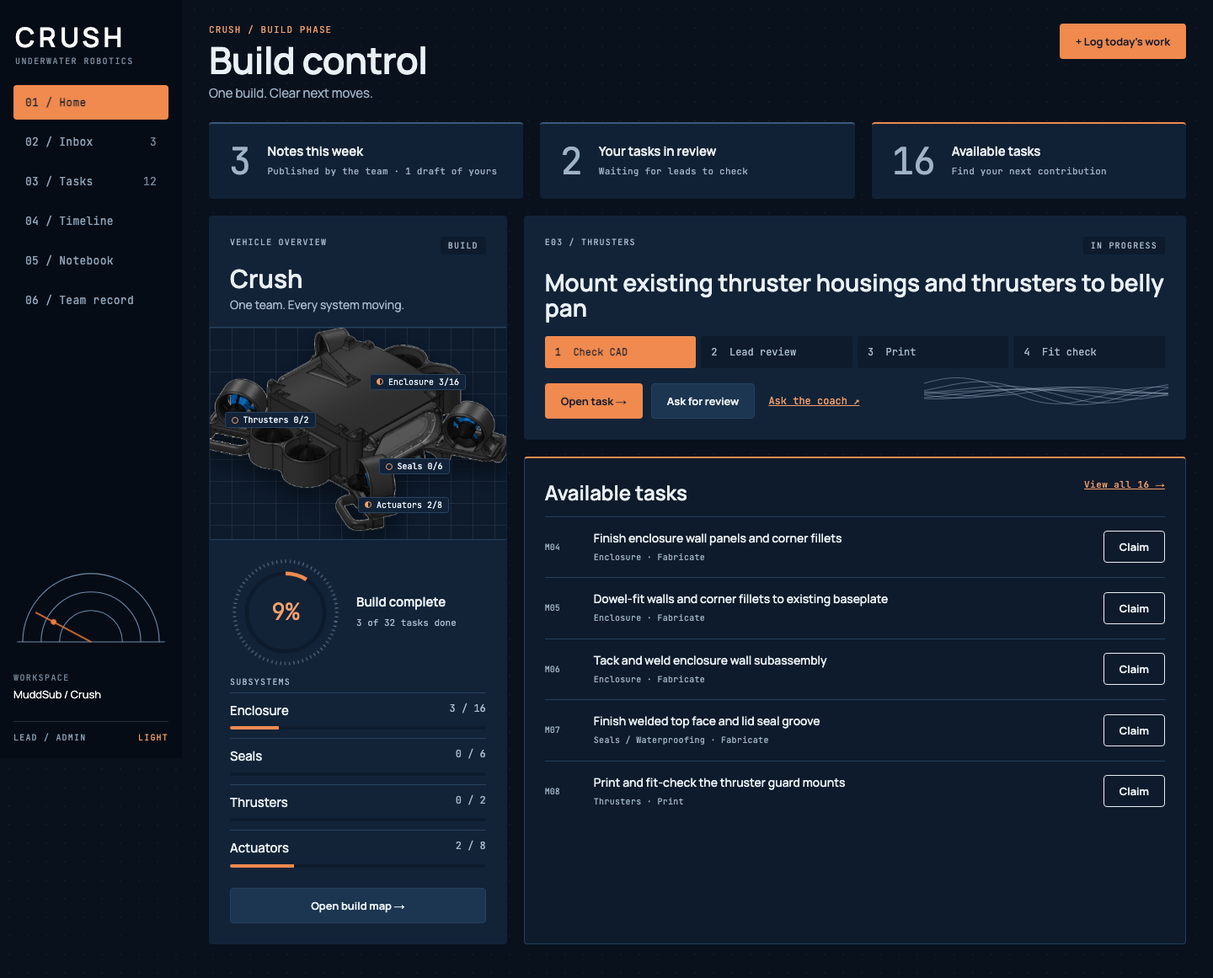
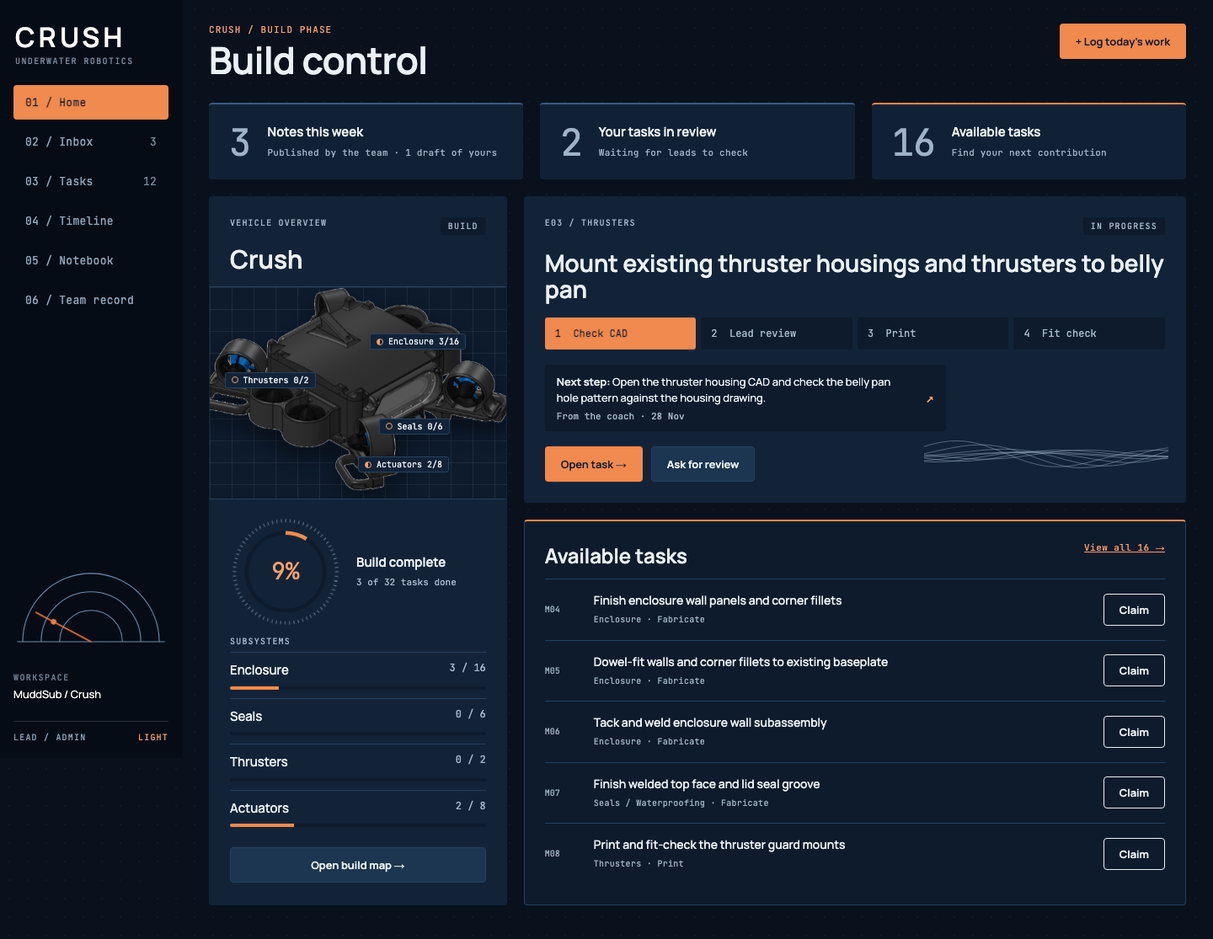
Home: Next-step block links into the coach; drop the tagline lines
The separate 'Ask the coach' link is removed. The Next-step block (both states) is
a real link to /tasks/{code}#coach with a decorative arrow and a 2px orange outline
on hover and focus. The task page's coach section gets id="coach" and focuses the
message box when arrived at with #coach. Polar concept updated to match.

diff --git a/docs/concepts/polar.html b/docs/concepts/polar.html
@@ -7,14 +7,13 @@
 <path d="M10 94a74 74 0 0 1 148 0M30 94a54 54 0 0 1 108 0M50 94a34 34 0 0 1 68 0"/><path d="M4 94h160"/>
 <g class="sweep"><path d="M84 94V26" stroke="#ef7d3e" stroke-width="1.5"/><circle cx="84" cy="48" r="3" fill="#ef7d3e" stroke="none"/></g></svg><div class="ws">Workspace</div><div class="wsn">MuddSub / Crush</div>
 <div class="mode"><span>Lead / Admin</span><button id="mb" type="button">Dark</button></div></aside>
-<main><div class="head rise"><div><div class="eyebrow">Crush / Build phase</div><h1>Build control</h1><p class="lede">One build. Clear next moves.</p></div><a class="btn btn--o" href="#">+ Log today's work</a></div>
+<main><div class="head rise"><div><div class="eyebrow">Crush / Build phase</div><h1>Build control</h1></div><a class="btn btn--o" href="#">+ Log today's work</a></div>
 <div class="tiles">
 <div class="tile rise" style="--d:.05s"><span class="n">3</span><div><b>Notes this week</b><span>Published by the team · 1 draft of yours</span></div></div>
 <div class="tile rise" style="--d:.1s"><span class="n">2</span><div><b>Your tasks in review</b><span>Waiting for leads to check</span></div></div>
 <div class="tile rise" style="--d:.15s"><span class="n">16</span><div><b>Available tasks</b><span>Find your next contribution</span></div></div></div>
 <div class="grid">
-<section class="panel veh rise" style="--d:.2s" aria-labelledby="vo"><div class="row"><span class="lbl">Vehicle overview</span><span class="pill">Build</span></div><h2 id="vo">Crush</h2><p class="tag">One team. Every system moving.</p>
-<div class="render"><img src="../../src/static/img/crush.png" alt="Crush CAD render">
+<section class="panel veh rise" style="--d:.2s" aria-labelledby="vo"><div class="row"><span class="lbl">Vehicle overview</span><span class="pill">Build</span></div><h2 id="vo">Crush</h2><div class="render"><img src="../../src/static/img/crush.png" alt="Crush CAD render">
 <span class="pin half" style="left:54%;top:22%"><i></i>Enclosure 3/16</span><span class="pin" style="left:5%;top:40%"><i></i>Thrusters 0/2</span><span class="pin" style="left:57%;top:62%"><i></i>Seals 0/6</span><span class="pin half" style="left:50%;top:80%"><i></i>Actuators 2/8</span></div>
 <div class="gauge"><svg viewBox="0 0 200 200" role="img" aria-label="Build 9 percent complete">
 <g class="g-ticks"><circle cx="100" cy="100" r="92" fill="none" stroke="var(--panel-muted)" stroke-width="6" stroke-dasharray="1.6 6.4" opacity=".55"/></g>
@@ -26,7 +25,8 @@
 <section class="panel act rise" style="--d:.25s" aria-labelledby="at"><div class="row"><span class="lbl">E03 / Thrusters</span><span class="pill">In progress</span></div>
 <h2 id="at">Mount existing thruster housings and thrusters to belly pan</h2>
 <div class="steps"><div class="step on" aria-current="step">1 &nbsp;Check CAD</div><div class="step">2 &nbsp;Lead review</div><div class="step">3 &nbsp;Print</div><div class="step">4 &nbsp;Fit check</div></div>
-<div class="acts"><a class="btn btn--o" href="#">Open task →</a><a class="btn btn--g" href="#">Ask for review</a><a class="ask" href="#">Ask the coach ↗</a></div>
+<a class="next" href="#"><b>Next step:</b> Open the thruster housing CAD and check the belly pan hole pattern against the housing drawing.<small>From the coach · 28 Nov</small><span class="arr" aria-hidden="true">↗</span></a>
+<div class="acts"><a class="btn btn--o" href="#">Open task →</a><a class="btn btn--g" href="#">Ask for review</a></div>
 <div class="waves" aria-hidden="true"><svg viewBox="0 0 1040 60"><path d="M0,30.0 L8,30.7 L16,31.5 L24,32.3 L32,33.1 L40,33.8 L48,34.4 L56,34.9 L64,35.2 L72,35.2 L80,35.1 L88,34.7 L96,34.2 L104,33.4 L112,32.5 L120,31.4 L128,30.3 L136,29.1 L144,28.0 L152,27.0 L160,26.1 L168,25.3 L176,24.8 L184,24.5 L192,24.4 L200,24.5 L208,24.9 L216,25.4 L224,26.1 L232,26.9 L240,27.8 L248,28.7 L256,29.6 L264,30.4 L272,31.1 L280,31.7 L288,32.2 L296,32.5 L304,32.7 L312,32.7 L320,32.6 L328,32.4 L336,32.2 L344,31.9 L352,31.5 L360,31.2 L368,30.8 L376,30.5 L384,30.2 L392,29.9 L400,29.7 L408,29.5 L416,29.3 L424,29.1 L432,29.0 L440,28.8 L448,28.7 L456,28.7 L464,28.6 L472,28.6 L480,28.6 L488,28.8 L496,28.9 L504,29.2 L512,29.6 L520,30.0 L528,30.5 L536,31.1 L544,31.7 L552,32.3 L560,32.8 L568,33.4 L576,33.8 L584,34.1 L592,34.2 L600,34.2 L608,34.0 L616,33.6 L624,33.0 L632,32.2 L640,31.3 L648,30.3 L656,29.2 L664,28.1 L672,27.0 L680,26.1 L688,25.3 L696,24.6 L704,24.2 L712,24.0 L720,24.1 L728,24.4 L736,24.9 L744,25.6 L752,26.4 L760,27.4 L768,28.4 L776,29.5 L784,30.5 L792,31.4 L800,32.2 L808,32.9 L816,33.4 L824,33.7 L832,33.8 L840,33.8 L848,33.6 L856,33.3 L864,32.9 L872,32.4 L880,31.8 L888,31.3 L896,30.8 L904,30.3 L912,29.9 L920,29.5 L928,29.3 L936,29.1 L944,28.9 L952,28.8 L960,28.8 L968,28.7 L976,28.8 L984,28.8 L992,28.9 L1000,29.0 L1008,29.1 L1016,29.3 L1024,29.5 L1032,29.7 L1040,30.0"/><path d="M0,33.7 L8,34.9 L16,35.9 L24,36.7 L32,37.3 L40,37.6 L48,37.5 L56,37.2 L64,36.5 L72,35.7 L80,34.6 L88,33.3 L96,31.9 L104,30.6 L112,29.2 L120,27.9 L128,26.8 L136,25.9 L144,25.2 L152,24.8 L160,24.6 L168,24.6 L176,24.9 L184,25.3 L192,25.9 L200,26.6 L208,27.4 L216,28.1 L224,28.9 L232,29.6 L240,30.2 L248,30.7 L256,31.1 L264,31.4 L272,31.6 L280,31.8 L288,31.8 L296,31.8 L304,31.7 L312,31.6 L320,31.4 L328,31.2 L336,31.0 L344,30.8 L352,30.6 L360,30.3 L368,30.0 L376,29.6 L384,29.2 L392,28.8 L400,28.4 L408,27.9 L416,27.5 L424,27.1 L432,26.9 L440,26.7 L448,26.6 L456,26.7 L464,27.0 L472,27.5 L480,28.1 L488,28.9 L496,29.8 L504,30.9 L512,32.0 L520,33.1 L528,34.2 L536,35.2 L544,36.0 L552,36.6 L560,37.0 L568,37.1 L576,36.9 L584,36.4 L592,35.6 L600,34.6 L608,33.4 L616,32.0 L624,30.6 L632,29.1 L640,27.7 L648,26.4 L656,25.3 L664,24.4 L672,23.8 L680,23.4 L688,23.3 L696,23.5 L704,24.0 L712,24.6 L720,25.4 L728,26.4 L736,27.4 L744,28.4 L752,29.4 L760,30.3 L768,31.1 L776,31.7 L784,32.2 L792,32.6 L800,32.7 L808,32.8 L816,32.7 L824,32.5 L832,32.3 L840,32.0 L848,31.6 L856,31.3 L864,30.9 L872,30.6 L880,30.3 L888,30.0 L896,29.7 L904,29.4 L912,29.1 L920,28.9 L928,28.6 L936,28.4 L944,28.2 L952,28.0 L960,27.9 L968,27.8 L976,27.9 L984,28.0 L992,28.3 L1000,28.7 L1008,29.2 L1016,29.9 L1024,30.6 L1032,31.5 L1040,32.4"/><path d="M0,37.9 L8,38.4 L16,38.5 L24,38.3 L32,37.8 L40,36.9 L48,35.9 L56,34.7 L64,33.4 L72,32.0 L80,30.7 L88,29.5 L96,28.4 L104,27.5 L112,26.8 L120,26.4 L128,26.1 L136,26.0 L144,26.1 L152,26.4 L160,26.8 L168,27.2 L176,27.7 L184,28.2 L192,28.7 L200,29.2 L208,29.7 L216,30.1 L224,30.4 L232,30.8 L240,31.1 L248,31.3 L256,31.6 L264,31.8 L272,32.0 L280,32.1 L288,32.2 L296,32.2 L304,32.2 L312,32.0 L320,31.7 L328,31.3 L336,30.7 L344,30.0 L352,29.2 L360,28.4 L368,27.4 L376,26.5 L384,25.5 L392,24.7 L400,24.0 L408,23.6 L416,23.3 L424,23.4 L432,23.7 L440,24.4 L448,25.3 L456,26.5 L464,27.9 L472,29.5 L480,31.2 L488,32.8 L496,34.5 L504,35.9 L512,37.2 L520,38.2 L528,38.8 L536,39.1 L544,39.1 L552,38.6 L560,37.9 L568,36.8 L576,35.5 L584,34.0 L592,32.5 L600,30.9 L608,29.3 L616,27.9 L624,26.7 L632,25.7 L640,25.0 L648,24.5 L656,24.3 L664,24.4 L672,24.6 L680,25.1 L688,25.7 L696,26.5 L704,27.2 L712,28.0 L720,28.8 L728,29.5 L736,30.1 L744,30.6 L752,31.1 L760,31.4 L768,31.6 L776,31.8 L784,31.9 L792,31.9 L800,31.9 L808,31.8 L816,31.7 L824,31.6 L832,31.4 L840,31.1 L848,30.8 L856,30.5 L864,30.0 L872,29.5 L880,28.9 L888,28.3 L896,27.6 L904,27.0 L912,26.4 L920,25.8 L928,25.4 L936,25.2 L944,25.1 L952,25.2 L960,25.6 L968,26.3 L976,27.2 L984,28.3 L992,29.6 L1000,31.0 L1008,32.5 L1016,34.0 L1024,35.4 L1032,36.6 L1040,37.7"/><path d="M0,37.1 L8,36.5 L16,35.6 L24,34.7 L32,33.7 L40,32.6 L48,31.6 L56,30.6 L64,29.8 L72,29.1 L80,28.5 L88,28.1 L96,27.8 L104,27.6 L112,27.5 L120,27.6 L128,27.7 L136,27.8 L144,28.0 L152,28.2 L160,28.5 L168,28.8 L176,29.2 L184,29.6 L192,30.0 L200,30.5 L208,31.1 L216,31.7 L224,32.4 L232,33.0 L240,33.7 L248,34.2 L256,34.6 L264,34.9 L272,35.0 L280,34.9 L288,34.5 L296,33.8 L304,32.9 L312,31.7 L320,30.3 L328,28.8 L336,27.2 L344,25.5 L352,24.0 L360,22.6 L368,21.4 L376,20.5 L384,19.9 L392,19.8 L400,20.1 L408,20.8 L416,21.9 L424,23.3 L432,25.0 L440,27.0 L448,29.0 L456,31.1 L464,33.1 L472,34.9 L480,36.5 L488,37.8 L496,38.7 L504,39.2 L512,39.3 L520,39.1 L528,38.4 L536,37.5 L544,36.4 L552,35.1 L560,33.7 L568,32.3 L576,30.9 L584,29.7 L592,28.6 L600,27.7 L608,27.0 L616,26.5 L624,26.3 L632,26.2 L640,26.3 L648,26.5 L656,26.9 L664,27.3 L672,27.7 L680,28.2 L688,28.7 L696,29.1 L704,29.6 L712,30.0 L720,30.4 L728,30.8 L736,31.2 L744,31.6 L752,32.0 L760,32.4 L768,32.7 L776,33.0 L784,33.2 L792,33.2 L800,33.2 L808,33.0 L816,32.6 L824,32.0 L832,31.2 L840,30.2 L848,29.1 L856,27.9 L864,26.6 L872,25.3 L880,24.1 L888,23.0 L896,22.2 L904,21.6 L912,21.3 L920,21.4 L928,21.8 L936,22.6 L944,23.8 L952,25.3 L960,27.1 L968,29.1 L976,31.1 L984,33.1 L992,35.1 L1000,36.8 L1008,38.3 L1016,39.4 L1024,40.2 L1032,40.5 L1040,40.4"/><path d="M0,33.0 L8,32.3 L16,31.7 L24,31.0 L32,30.5 L40,29.9 L48,29.4 L56,29.0 L64,28.6 L72,28.2 L80,27.9 L88,27.5 L96,27.3 L104,27.0 L112,26.9 L120,26.8 L128,26.9 L136,27.2 L144,27.6 L152,28.1 L160,28.9 L168,29.9 L176,31.0 L184,32.2 L192,33.5 L200,34.9 L208,36.1 L216,37.3 L224,38.2 L232,38.9 L240,39.2 L248,39.1 L256,38.7 L264,37.8 L272,36.5 L280,34.9 L288,33.0 L296,30.8 L304,28.6 L312,26.3 L320,24.1 L328,22.1 L336,20.4 L344,19.0 L352,18.1 L360,17.7 L368,17.8 L376,18.4 L384,19.4 L392,20.8 L400,22.6 L408,24.5 L416,26.6 L424,28.7 L432,30.8 L440,32.6 L448,34.3 L456,35.6 L464,36.6 L472,37.2 L480,37.4 L488,37.4 L496,37.0 L504,36.4 L512,35.6 L520,34.6 L528,33.6 L536,32.6 L544,31.6 L552,30.7 L560,29.9 L568,29.2 L576,28.7 L584,28.2 L592,27.9 L600,27.7 L608,27.6 L616,27.5 L624,27.5 L632,27.6 L640,27.7 L648,27.8 L656,28.1 L664,28.4 L672,28.8 L680,29.3 L688,29.9 L696,30.6 L704,31.5 L712,32.3 L720,33.3 L728,34.2 L736,35.0 L744,35.8 L752,36.4 L760,36.8 L768,36.9 L776,36.6 L784,36.1 L792,35.2 L800,34.0 L808,32.5 L816,30.7 L824,28.8 L832,26.7 L840,24.7 L848,22.8 L856,21.1 L864,19.6 L872,18.6 L880,18.0 L888,17.8 L896,18.2 L904,19.0 L912,20.3 L920,22.0 L928,24.0 L936,26.2 L944,28.6 L952,30.9 L960,33.1 L968,35.1 L976,36.8 L984,38.2 L992,39.1 L1000,39.7 L1008,39.8 L1016,39.4 L1024,38.8 L1032,37.8 L1040,36.6"/><path d="M0,31.2 L8,30.6 L16,30.0 L24,29.3 L32,28.5 L40,27.7 L48,26.8 L56,25.9 L64,25.1 L72,24.3 L80,23.8 L88,23.4 L96,23.3 L104,23.5 L112,24.0 L120,24.9 L128,26.1 L136,27.6 L144,29.5 L152,31.5 L160,33.6 L168,35.8 L176,37.8 L184,39.7 L192,41.3 L200,42.4 L208,43.2 L216,43.3 L224,43.0 L232,42.1 L240,40.7 L248,38.8 L256,36.6 L264,34.1 L272,31.4 L280,28.7 L288,26.2 L296,23.8 L304,21.8 L312,20.1 L320,19.0 L328,18.3 L336,18.1 L344,18.5 L352,19.2 L360,20.4 L368,21.8 L376,23.5 L384,25.3 L392,27.0 L400,28.8 L408,30.3 L416,31.7 L424,32.8 L432,33.7 L440,34.3 L448,34.6 L456,34.7 L464,34.6 L472,34.3 L480,33.9 L488,33.4 L496,32.8 L504,32.3 L512,31.7 L520,31.1 L528,30.6 L536,30.0 L544,29.5 L552,28.9 L560,28.4 L568,27.9 L576,27.3 L584,26.8 L592,26.4 L600,26.0 L608,25.7 L616,25.6 L624,25.7 L632,26.0 L640,26.5 L648,27.3 L656,28.3 L664,29.6 L672,31.1 L680,32.7 L688,34.4 L696,36.2 L704,37.8 L712,39.2 L720,40.4 L728,41.2 L736,41.5 L744,41.4 L752,40.8 L760,39.8 L768,38.2 L776,36.2 L784,33.9 L792,31.4 L800,28.7 L808,26.1 L816,23.6 L824,21.3 L832,19.4 L840,17.9 L848,16.9 L856,16.5 L864,16.6 L872,17.3 L880,18.4 L888,20.0 L896,21.8 L904,23.9 L912,26.1 L920,28.4 L928,30.5 L936,32.4 L944,34.0 L952,35.3 L960,36.3 L968,36.9 L976,37.1 L984,37.0 L992,36.7 L1000,36.1 L1008,35.3 L1016,34.4 L1024,33.5 L1032,32.5 L1040,31.6"/><path d="M0,28.8 L8,27.2 L16,25.5 L24,23.8 L32,22.1 L40,20.7 L48,19.4 L56,18.6 L64,18.2 L72,18.2 L80,18.8 L88,19.9 L96,21.5 L104,23.6 L112,26.0 L120,28.8 L128,31.7 L136,34.6 L144,37.3 L152,39.9 L160,42.0 L168,43.7 L176,44.9 L184,45.4 L192,45.3 L200,44.6 L208,43.3 L216,41.6 L224,39.4 L232,37.0 L240,34.4 L248,31.7 L256,29.2 L264,26.9 L272,24.9 L280,23.2 L288,22.0 L296,21.3 L304,20.9 L312,21.0 L320,21.5 L328,22.2 L336,23.2 L344,24.3 L352,25.6 L360,26.8 L368,28.0 L376,29.1 L384,30.1 L392,30.9 L400,31.6 L408,32.1 L416,32.5 L424,32.8 L432,33.0 L440,33.1 L448,33.1 L456,33.1 L464,33.0 L472,32.8 L480,32.5 L488,32.1 L496,31.6 L504,31.0 L512,30.2 L520,29.2 L528,28.2 L536,27.0 L544,25.8 L552,24.6 L560,23.5 L568,22.5 L576,21.7 L584,21.2 L592,21.1 L600,21.3 L608,22.0 L616,23.2 L624,24.7 L632,26.7 L640,29.0 L648,31.4 L656,34.0 L664,36.6 L672,39.1 L680,41.3 L688,43.1 L696,44.4 L704,45.2 L712,45.4 L720,44.9 L728,43.9 L736,42.3 L744,40.2 L752,37.7 L760,34.9 L768,32.0 L776,29.1 L784,26.3 L792,23.8 L800,21.7 L808,20.0 L816,18.8 L824,18.1 L832,18.0 L840,18.4 L848,19.2 L856,20.4 L864,21.8 L872,23.5 L880,25.2 L888,26.9 L896,28.6 L904,30.1 L912,31.4 L920,32.5 L928,33.3 L936,33.8 L944,34.1 L952,34.2 L960,34.2 L968,34.0 L976,33.6 L984,33.2 L992,32.8 L1000,32.3 L1008,31.8 L1016,31.3 L1024,30.7 L1032,30.1 L1040,29.5"/><path d="M0,20.3 L8,18.0 L16,16.1 L24,14.6 L32,13.7 L40,13.5 L48,13.9 L56,15.0 L64,16.7 L72,19.0 L80,21.8 L88,24.8 L96,28.1 L104,31.4 L112,34.5 L120,37.4 L128,39.9 L136,41.9 L144,43.3 L152,44.1 L160,44.3 L168,43.9 L176,43.0 L184,41.6 L192,39.9 L200,37.9 L208,35.8 L216,33.6 L224,31.6 L232,29.7 L240,28.1 L248,26.7 L256,25.7 L264,25.0 L272,24.6 L280,24.5 L288,24.6 L296,24.9 L304,25.4 L312,26.0 L320,26.6 L328,27.3 L336,27.9 L344,28.6 L352,29.3 L360,29.9 L368,30.6 L376,31.3 L384,32.0 L392,32.7 L400,33.4 L408,34.0 L416,34.6 L424,35.1 L432,35.5 L440,35.7 L448,35.6 L456,35.2 L464,34.6 L472,33.6 L480,32.2 L488,30.6 L496,28.7 L504,26.7 L512,24.5 L520,22.3 L528,20.3 L536,18.5 L544,17.0 L552,16.0 L560,15.6 L568,15.7 L576,16.4 L584,17.8 L592,19.7 L600,22.1 L608,25.0 L616,28.1 L624,31.4 L632,34.6 L640,37.7 L648,40.5 L656,42.9 L664,44.7 L672,45.9 L680,46.5 L688,46.3 L696,45.5 L704,44.1 L712,42.3 L720,40.0 L728,37.5 L736,34.8 L744,32.1 L752,29.6 L760,27.3 L768,25.3 L776,23.7 L784,22.6 L792,21.9 L800,21.6 L808,21.7 L816,22.1 L824,22.8 L832,23.7 L840,24.8 L848,25.9 L856,27.0 L864,28.1 L872,29.0 L880,29.9 L888,30.7 L896,31.4 L904,31.9 L912,32.4 L920,32.8 L928,33.1 L936,33.4 L944,33.6 L952,33.7 L960,33.7 L968,33.6 L976,33.4 L984,32.9 L992,32.3 L1000,31.5 L1008,30.4 L1016,29.1 L1024,27.7 L1032,26.2 L1040,24.6"/></svg></div></section>
 <section class="panel avail rise" style="--d:.3s" aria-labelledby="av"><div class="row"><h2 id="av">Available tasks</h2><a href="#">View all 16 →</a></div>
 <div class="it"><span class="c">M04</span><span><b>Finish enclosure wall panels and corner fillets</b><span class="m">Enclosure · Fabricate</span></span><a class="btn btn--l" href="#">Claim</a></div><div class="it"><span class="c">M05</span><span><b>Dowel-fit walls and corner fillets to existing baseplate</b><span class="m">Enclosure · Fabricate</span></span><a class="btn btn--l" href="#">Claim</a></div><div class="it"><span class="c">M06</span><span><b>Tack and weld enclosure wall subassembly</b><span class="m">Enclosure · Fabricate</span></span><a class="btn btn--l" href="#">Claim</a></div><div class="it"><span class="c">M07</span><span><b>Finish welded top face and lid seal groove</b><span class="m">Seals / Waterproofing · Fabricate</span></span><a class="btn btn--l" href="#">Claim</a></div><div class="it"><span class="c">M08</span><span><b>Print and fit-check the thruster guard mounts</b><span class="m">Thrusters · Print</span></span><a class="btn btn--l" href="#">Claim</a></div></section></div></main></div>

diff --git a/src/templates/home.html b/src/templates/home.html
@@ -8,7 +8,6 @@
 <div class="topbar__title">
   <div class="eyebrow">Crush / Build phase</div>
   <h1 class="page-title">Build control</h1>
-  <p class="lede">One build. Clear next moves.</p>
 </div>
 {% endblock %}
 {% block topbar_actions %}{% if user %}<a class="btn btn--primary" href="/notebook" data-notebook-open data-panel-url="/notebook/panel?tab=today">+ Log today&rsquo;s work</a>{% endif %}{% endblock %}
@@ -38,7 +37,6 @@
   <section class="panel panel--navy home-grid__tall rise" style="--d:.2s" aria-labelledby="crush">
     <div class="row"><span class="lbl">Vehicle overview</span><span class="pill">Build</span></div>
     <h2 class="panel__title" id="crush">Crush</h2>
-    <p class="tagline">One team. Every system moving.</p>
     <div class="vehicle__view"><div class="render"><img src="/static/img/crush.png" alt="CAD render of Crush">
       {% for g in groups %}<a class="render__tag" href="/tasks?show=all#{{ g.slug }}" style="left:{{ g.tag[0] }}%;top:{{ g.tag[1] }}%"><span class="status status--{{ {'done': 'done', 'in_progress': 'in-progress', 'todo': 'todo'}[g.tag_state] }}"><span class="visually-hidden">{{ {'done': 'Done', 'in_progress': 'Started', 'todo': 'Not started'}[g.tag_state] }}: </span></span>{{ g.label }} {{ g.done }}/{{ g.total }}</a>{% endfor %}
     </div></div>
@@ -69,10 +67,11 @@
     <div class="row"><span class="lbl">{{ task.code }} / {{ task.subsystem }}</span><span class="pill">{{ status_labels[task.status] }}</span></div>
     <h2 class="panel__title" id="active-task"><a href="/tasks/{{ task.code }}">{{ task.title }}</a></h2>
     <ol class="stages" aria-label="Steps">{% for s in stages %}<li{% if s.state == "past" %} class="is-past"{% elif s.state == "current" %} class="is-current" aria-current="step"{% endif %}>{{ s.label }}</li>{% endfor %}</ol>
+    {#- The whole block is the way into the coach: a real link to the task page's coach section (#coach), which focuses the message box. The arrow is decoration; the hidden words finish the link's name. -#}
     {% if next_step %}
-    <p class="active__next"><b>Next step:</b> {{ next_step.text }}<small>From the coach · {{ next_step.date }}</small></p>
+    <a class="active__next" href="/tasks/{{ task.code }}#coach"><b>Next step:</b> {{ next_step.text }}<small>From the coach · {{ next_step.date }}</small><span class="visually-hidden">, open the coach</span><span class="active__arrow" aria-hidden="true">↗</span></a>
     {% else %}
-    <p class="active__next">No next step yet. Ask the coach about this task and it will suggest one.</p>
+    <a class="active__next" href="/tasks/{{ task.code }}#coach">No next step yet. Ask the coach about this task and it will suggest one.<span class="visually-hidden">, open the coach</span><span class="active__arrow" aria-hidden="true">↗</span></a>
     {% endif %}
     <div class="active__acts">
       <a class="btn btn--primary" href="/tasks/{{ task.code }}">Open task →</a>
@@ -82,7 +81,6 @@
         <button class="btn" type="submit">{{ main_action[1] }}</button>
       </form>
       {% endif %}
-      <a class="active__ask" href="/tasks/{{ task.code }}#coach-message">Ask the coach ↗</a>
     </div>
     {% if more_tasks %}<p class="meta">You have {{ more_tasks }} other task{{ "" if more_tasks == 1 else "s" }} in progress. <a href="/tasks?show=mine">See all yours</a>.</p>{% endif %}
     <div class="waves" aria-hidden="true"></div>

diff --git a/src/static/styles/theme.css b/src/static/styles/theme.css
@@ -114,7 +114,6 @@
 .lbl { font: 10px var(--font-mono); letter-spacing: 0.12em; text-transform: uppercase; color: var(--panel-muted); }
 .pill { font: 10px var(--font-mono); letter-spacing: 0.12em; text-transform: uppercase; background: var(--panel-inset); color: var(--panel-muted); padding: 4px 9px; border-radius: 3px; white-space: nowrap; }
 .row { display: flex; justify-content: space-between; align-items: flex-start; gap: 12px; }
-.tagline { margin: 0; color: var(--panel-muted); font-size: 14px; }
 
 /* Vehicle overview: the render on the blueprint grid, the gauge, a bar per subsystem */
 .vehicle__view { position: relative; margin: 16px -24px 0; padding: 20px 34px; background-color: var(--panel-inset); background-image: linear-gradient(var(--grid) 1px, transparent 1px), linear-gradient(90deg, var(--grid) 1px, transparent 1px); background-size: 26px 26px; border-block: 1px solid var(--panel-rule); display: grid; place-items: center; }
@@ -149,11 +148,13 @@
 .active .stages .is-past { background: var(--panel-btn); color: var(--panel-ink); }
 .active .stages .is-current { background: var(--orange); color: var(--on-orange); font-weight: var(--weight-semibold); }
 .active .stages:has(li:nth-child(5)) { grid-template-columns: repeat(auto-fit, minmax(120px, 1fr)); }
-.active__next { background: var(--panel-inset); border-radius: 3px; padding: 11px 14px; margin: 0 0 18px; font-size: var(--text-sm); max-width: 60ch; }
+/* The Next-step block is a link to the coach. Hover and keyboard focus draw the same 2px orange outline as every focus ring; the arrow is decoration. */
+.active__next { display: block; position: relative; background: var(--panel-inset); color: var(--panel-ink); border-radius: 3px; padding: 11px 40px 11px 14px; margin: 0 0 18px; font-size: var(--text-sm); max-width: 60ch; text-decoration: none; cursor: pointer; }
+.active__next:hover, .active__next:focus-visible { outline: 2px solid var(--orange); outline-offset: 2px; }
 .active__next small { display: block; font: 11px var(--font-mono); color: var(--panel-muted); margin-top: 4px; }
+.active__arrow { position: absolute; right: 14px; top: 50%; transform: translateY(-50%); font: 16px var(--font-mono); color: var(--orange-text-on-panel); }
 .active__acts { display: flex; gap: 10px; align-items: center; flex-wrap: wrap; position: relative; z-index: 1; }
 .active__acts form { margin: 0; }
-.active__ask { font: 12px var(--font-mono); color: var(--orange-text-on-panel); margin-left: 6px; }
 .active .meta { position: relative; z-index: 1; }
 .waves { position: absolute; right: 20px; bottom: 14px; width: 290px; height: 86px; opacity: 0.9; overflow: hidden; pointer-events: none; }
 .waves::before { content: ""; position: absolute; top: 14px; left: 0; width: 1040px; height: 60px; background: url("../img/waves.svg") 0 0 / 1040px 60px no-repeat; animation: drift 22s linear infinite; }

diff --git a/docs/concepts/polar.css b/docs/concepts/polar.css
@@ -96,7 +96,10 @@ h1{font:600 44px/1.05 "Manrope";letter-spacing:-.01em;margin:6px 0 6px}
 .step{background:var(--panel-inset);color:var(--panel-muted);font:400 12px "JetBrains Mono";padding:11px 12px;border-radius:3px}
 .step.on{background:var(--orange);color:var(--on-orange);font-weight:600}
 .acts{display:flex;gap:10px;align-items:center;flex-wrap:wrap;position:relative;z-index:1}
-.acts .ask{font:400 12px "JetBrains Mono";color:var(--orange-text-on-panel);margin-left:6px}
+.next{display:block;position:relative;background:var(--panel-inset);color:var(--panel-ink);border-radius:3px;padding:11px 40px 11px 14px;margin:0 0 18px;font-size:13px;max-width:60ch;text-decoration:none;cursor:pointer}
+.next:hover,.next:focus-visible{outline:2px solid var(--orange);outline-offset:2px}
+.next small{display:block;font:400 11px "JetBrains Mono";color:var(--panel-muted);margin-top:4px}
+.next .arr{position:absolute;right:14px;top:50%;transform:translateY(-50%);font:400 16px "JetBrains Mono";color:var(--orange-text-on-panel)}
 .waves{position:absolute;right:20px;bottom:14px;width:290px;height:86px;opacity:.9;overflow:hidden;color:var(--panel-muted)}
 .waves svg{width:1040px;height:60px;margin-top:14px;animation:drift 22s linear infinite}
 .waves path{fill:none;stroke:currentColor;stroke-width:1;opacity:.5}

diff --git a/src/static/coach.js b/src/static/coach.js
@@ -405,4 +405,17 @@
     var box = byId("coach-message");
     if (box) box.value = "";
   });
+
+  // A link to /tasks/CODE#coach (Home's Next-step block) lands on the coach with the message
+  // box ready to type in. Nothing is sent.
+  function focusCoachFromHash() {
+    if (window.location.hash !== "#coach") return;
+    var field = byId("coach-message");
+    if (field) field.focus();
+  }
+  // The browser's own jump to #coach (which clears focus) comes after this script runs, so focus
+  // again once the page has loaded as well.
+  focusCoachFromHash();
+  window.addEventListener("load", focusCoachFromHash);
+  window.addEventListener("hashchange", focusCoachFromHash);
 })();

diff --git a/src/templates/task.html b/src/templates/task.html
@@ -19,7 +19,7 @@
 {% else %}
 {% if error %}{{ notice_box(error, "error") }}{% endif %}
 <div class="grid-task">
-  <section class="panel" aria-labelledby="coach-heading">
+  <section class="panel" id="coach" aria-labelledby="coach-heading">
     <div class="panel__head"><div>
       <h2 class="panel__title" id="coach-heading">Coach</h2>
       <p class="panel__sub">Answers from the team Drive and the Team record. It advises; leads decide. Limit: {{ daily_limit }} messages per person per day.</p>

diff --git a/src/static/styles/extras.css b/src/static/styles/extras.css
@@ -76,6 +76,8 @@ input[type="checkbox"] { accent-color: var(--color-ink); width: var(--space-4); 
 .draft .panel__title { font-size: var(--text-md); }
 
 /* ---------- Coach thread ---------- */
+/* A link to /tasks/CODE#coach lands on the section with a little room above it. */
+#coach { scroll-margin-top: var(--space-4); }
 .msg, .msg-body { overflow-wrap: anywhere; }
 .msg-md > :first-child { margin-top: 0; }
 .msg-md > :last-child { margin-bottom: 0; }

diff --git a/src/tests/test_home.py b/src/tests/test_home.py
@@ -1,5 +1,7 @@
 """Home: your task with the stored Next step, tasks to pick up, progress, the render."""
 
+from pathlib import Path
+
 import pytest
 from fastapi.testclient import TestClient
 
@@ -118,6 +120,70 @@ def test_without_a_stored_next_step_home_says_so_and_does_not_ask_the_model(sess
     html = signed_in.get("/").text  # (the autouse fixture fails if the model is touched)
 
     assert "No next step yet." in html
+
+
+def test_the_next_step_block_is_a_link_into_the_coach_and_the_separate_link_is_gone(session, signed_in):
+    task = add(session, "E01", status="in_progress", owner="Sam Example")
+    session.add(
+        CoachMessage(
+            task_id=task.id,
+            member="Coach",
+            role="assistant",
+            content="Here is what I found.\n\n**Next step:** open the sub-assembly.",
+            created_at=utc_now(),
+        )
+    )
+    session.commit()
+
+    html = signed_in.get("/").text
+
+    block = html[html.index('<a class="active__next"') : html.index("</a>", html.index('<a class="active__next"'))]
+    assert 'href="/tasks/E01#coach"' in block  # a real link, not a div with a handler
+    assert "<b>Next step:</b> Open the sub-assembly." in block and "From the coach" in block
+    assert '<span class="visually-hidden">, open the coach</span>' in block  # finishes its name
+    assert '<span class="active__arrow" aria-hidden="true">↗</span>' in block  # decoration only
+    assert "Ask the coach ↗" not in html and "active__ask" not in html
+    assert "#coach-message" not in html
+    # The buttons that remain.
+    assert 'href="/tasks/E01"' in html and "Open task" in html and ">Mark step done</button>" in html
+
+
+def test_the_empty_next_step_is_the_same_link(session, signed_in):
+    add(session, "E01", status="in_progress", owner="Sam Example")
+
+    html = signed_in.get("/").text
+
+    block = html[html.index('<a class="active__next"') : html.index("</a>", html.index('<a class="active__next"'))]
+    assert 'href="/tasks/E01#coach"' in block
+    assert "No next step yet. Ask the coach about this task and it will suggest one." in block
+    assert ", open the coach</span>" in block and 'aria-hidden="true">↗' in block
+
+
+def test_home_has_no_tagline_lines(session, signed_in):
+    html = signed_in.get("/").text
+
+    assert "One build. Clear next moves." not in html
+    assert "One team. Every system moving." not in html
+    assert "Build control" in html and "Crush" in html
+
+
+def test_the_task_page_coach_section_is_the_target_of_that_link(session, signed_in):
+    add(session, "E01", status="in_progress", owner="Sam Example")
+
+    html = signed_in.get("/tasks/E01").text
+
+    assert '<section class="panel" id="coach" aria-labelledby="coach-heading">' in html
+    assert html.count('id="coach"') == 1 and 'id="coach-message"' in html
+
+
+def test_arriving_with_coach_in_the_address_focuses_the_box_without_sending():
+    js = (Path(__file__).resolve().parents[1] / "static" / "coach.js").read_text()
+    focus = js[js.index("function focusCoachFromHash") : js.index('addEventListener("hashchange"')]
+    assert 'addEventListener("load", focusCoachFromHash)' in focus  # the browser's jump clears focus first
+
+    assert 'window.location.hash !== "#coach"' in focus
+    assert 'byId("coach-message")' in focus and "field.focus()" in focus
+    assert "requestSubmit" not in focus and "submit(" not in focus and "fetch(" not in focus
 
 
 def test_a_member_with_no_task_is_told_to_pick_one(session, signed_in):

diff --git a/src/tests/test_theme.py b/src/tests/test_theme.py
@@ -257,3 +257,12 @@ def test_the_tokens_and_components_have_four_pixel_corners():
         # (the square and diamond status marks are ::before shapes and stay square)
         sheet = re.sub(r"[^{}]*::before\s*\{[^}]*\}", "", sheet)
         assert not re.search(r"border-radius:\s*0\s*[;}]", sheet)
+
+
+def test_the_next_step_link_has_the_orange_outline_on_hover_and_focus():
+    rule = re.search(r"\.active__next:hover, \.active__next:focus-visible \{([^}]*)\}", THEME).group(1)
+
+    assert "outline: 2px solid var(--orange)" in rule and "outline-offset: 2px" in rule
+    block = re.search(r"\n\.active__next \{([^}]*)\}", THEME).group(1)
+    assert "cursor: pointer" in block and "text-decoration: none" in block
+    assert "active__ask" not in THEME and ".tagline" not in THEME

diff --git a/docs/design.md b/docs/design.md
@@ -16,8 +16,8 @@ Navy instrument panels on a pale page, one orange accent, rounded 4px corners. M
 
 Only Home is laid out as the concept. Every other page keeps its own layout and takes the new look through the shared tokens and components (`.panel`, `.btn`, `.status`, rows, fields).
 
-**Home** (`/`): header (eyebrow "Crush / Build phase", title "Build control", lede, **+ Log today's work**), then three tiles (**Notes this week**: published notes only, plus "N drafts of yours" when the member has drafts; **Your tasks in review**; **Available tasks**), then the grid: a tall **Vehicle overview** on the left (Crush on the blueprint grid with a tag per part from `progress.SUBSYSTEM_GROUPS`, the gauge, a bar per subsystem, Open build map), a wide **Active task** (stage strip, the stored "Next step" line, Open task / Ask for review or Mark step done / Ask the coach) and a full-width **Available tasks** panel with Claim buttons, and that's the page. Home has no Notebook banner: its only Notebook links are the header's **+ Log today's work** and the sidebar's Notebook (the "You worked on M06 today" nudge lives on every page, see rule 13). Under 1100px it is one column. Signed-out visitors see the same page as a preview: real progress, only the Available tile, blurred task titles, Claim disabled.
-Empty states: no active task → "You haven't started a task. Pick one from Available tasks below." No unclaimed tasks → "Every task has an owner."
+**Home** (`/`): header (eyebrow "Crush / Build phase", title "Build control", **+ Log today's work**; no tagline lines under the title or the Crush heading), then three tiles (**Notes this week**: published notes only, plus "N drafts of yours" when the member has drafts; **Your tasks in review**; **Available tasks**), then the grid: a tall **Vehicle overview** on the left (Crush on the blueprint grid with a tag per part from `progress.SUBSYSTEM_GROUPS`, the gauge, a bar per subsystem, Open build map), a wide **Active task** (stage strip; the stored "Next step" block, which is itself the link into the coach: a real `<a>` to `/tasks/{code}#coach` with a decorative ↗ at its right edge, a 2px orange outline on hover and keyboard focus, and the accessible name "Next step: … , open the coach" (the empty state, "No next step yet. Ask the coach about this task and it will suggest one.", is the same link); then Open task and the step's main button, Ask for review or Mark step done) and a full-width **Available tasks** panel with Claim buttons, and that's the page. Home has no Notebook banner: its only Notebook links are the header's **+ Log today's work** and the sidebar's Notebook (the "You worked on M06 today" nudge lives on every page, see rule 13). Under 1100px it is one column. Signed-out visitors see the same page as a preview: real progress, only the Available tile, blurred task titles, Claim disabled.
+The task page's coach section has `id="coach"`; arriving with `#coach` focuses its message box (nothing is sent). Empty states: no active task → "You haven't started a task. Pick one from Available tasks below." No unclaimed tasks → "Every task has an owner."
 
 **Tasks**: filters All / Mine / Unclaimed / Needs review; counts box; one flush panel per subsystem with a ruler progress bar (one tick per task) and task rows; Suggest a task. **Notebook** (`/notebook`, and the side panel): Today's entry, Earlier, Private notes. **Task**: Coach thread on the left; Progress, Type and steps (leads), About this task, History on the right.
 
